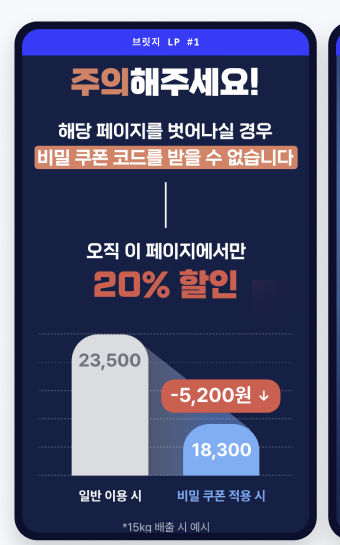
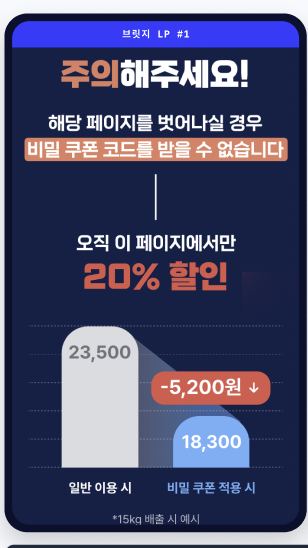
v25.2: p5 우측 재구성 + p9 카드 sliver 제거
- p5(ARPU/8kg) 우측 컬럼 첨부 디자인 매칭
  · Card #3을 가로형(텍스트 좌측 + 가방 우측)으로 재구성
  · 결과 미니 차트(20.75 vs 27.07)를 Card #3 카드 안에서 분리, 그 아래 별도 카드로 배치
  · Card #1·#2는 column 3 길이에 맞춰 자동 stretch
- p9(Web2App) 3장 카드 재크롭으로 인접 카드 sliver 완전 제거
  · Card #1: left=10, w=308, h=548 (table header 누설 차단)
  · Card #2: left=358, w=282, h=548 (우측 sliver 제거)
  · Card #3: left=660, w=340, h=548 ('첫구매' 좌측 텍스트까지 포함)

diff --git a/이도형_포트폴리오_v25.html b/이도형_포트폴리오_v25.html
@@ -834,41 +834,45 @@ document.addEventListener('DOMContentLoaded', function(){
           </div>
         </div>
 
-        <!-- ─── Card #3: 많이 배출 = 이득 + 결과 미니 차트 ─── -->
-        <div style="background:#fff;border:1px solid var(--line);border-radius:12px;overflow:hidden;display:flex;flex-direction:column;box-shadow:0 2px 6px rgba(15,25,50,.04);">
-          <div style="background:var(--cobalt);padding:8px 12px;font-family:var(--font-mono);font-size:11px;font-weight:800;color:#fff;letter-spacing:.08em;text-align:center;text-transform:uppercase;flex-shrink:0;">8kg 정책 #3</div>
-          <!-- 베이지 영역: 안내 + 가방 -->
-          <div style="background:#F3EBD7;padding:14px 14px 12px;display:flex;flex-direction:column;align-items:center;flex-shrink:0;">
-            <div style="font-family:var(--font-mono);font-size:10px;font-weight:700;color:#8A7641;letter-spacing:.04em;">많이 배출하면 이득</div>
-            <div style="margin-top:6px;font-family:var(--font-display);font-size:15px;font-weight:900;color:#3A331E;text-align:center;line-height:1.35;letter-spacing:-.02em;">8kg 초과 배출 하고<br>기본 요금 <span style="color:#0F19D8;">25% 할인</span></div>
-            <div style="margin-top:10px;position:relative;width:120px;height:120px;">
-              <svg viewBox="0 0 170 170" style="width:100%;height:100%;">
-                <ellipse cx="85" cy="22" rx="24" ry="13" fill="none" stroke="#3A4257" stroke-width="3.5"/>
-                <path d="M 30 28 L 140 28 L 152 158 L 18 158 Z" fill="#3A4257"/>
-                <text x="85" y="96" text-anchor="middle" font-family="Pretendard, sans-serif" font-weight="900" font-size="32" fill="#fff">8kg</text>
-                <text x="85" y="120" text-anchor="middle" font-family="Pretendard, sans-serif" font-weight="600" font-size="8" fill="#fff" opacity="0.7">기본요금 할인</text>
-              </svg>
-              <div style="position:absolute;bottom:4px;right:-4px;width:48px;height:48px;">
-                <svg viewBox="0 0 62 62" style="width:100%;height:100%;">
-                  <path d="M 4 4 L 58 4 L 58 55 L 31 46 L 4 55 Z" fill="#C5EE6F" stroke="#0F19D8" stroke-width="2"/>
-                  <text x="31" y="34" text-anchor="middle" font-family="Pretendard, sans-serif" font-weight="900" font-size="16" fill="#0A0F2E">20%</text>
+        <!-- ─── Column 3: Card #3 (가로형 텍스트+가방) + 결과 미니 차트 stacked ─── -->
+        <div style="display:flex;flex-direction:column;gap:12px;min-height:0;">
+          <!-- Card #3: 텍스트 좌측 · 가방 우측 -->
+          <div style="background:#fff;border:1px solid var(--line);border-radius:12px;overflow:hidden;display:flex;flex-direction:column;box-shadow:0 2px 6px rgba(15,25,50,.04);flex-shrink:0;">
+            <div style="background:var(--cobalt);padding:8px 12px;font-family:var(--font-mono);font-size:11px;font-weight:800;color:#fff;letter-spacing:.08em;text-align:center;text-transform:uppercase;flex-shrink:0;">8kg 정책 #3</div>
+            <div style="padding:18px 16px 16px;display:flex;align-items:center;gap:10px;">
+              <div style="flex:1;min-width:0;">
+                <div style="font-family:var(--font-mono);font-size:10.5px;font-weight:700;color:#5B6675;letter-spacing:.04em;">많이 배출하면 이득</div>
+                <div style="margin-top:8px;font-family:var(--font-display);font-size:14.5px;font-weight:900;color:var(--text);line-height:1.4;letter-spacing:-.02em;">8kg 초과 배출 하고<br>기본 요금 <span style="color:#0F19D8;">25% 할인</span></div>
+              </div>
+              <div style="position:relative;width:90px;height:90px;flex-shrink:0;">
+                <svg viewBox="0 0 170 170" style="width:100%;height:100%;">
+                  <ellipse cx="85" cy="22" rx="24" ry="13" fill="none" stroke="#3A4257" stroke-width="3.5"/>
+                  <path d="M 30 28 L 140 28 L 152 158 L 18 158 Z" fill="#3A4257"/>
+                  <text x="85" y="96" text-anchor="middle" font-family="Pretendard, sans-serif" font-weight="900" font-size="32" fill="#fff">8kg</text>
                 </svg>
+                <div style="position:absolute;bottom:-4px;right:-8px;width:42px;height:42px;">
+                  <svg viewBox="0 0 62 62" style="width:100%;height:100%;">
+                    <path d="M 4 4 L 58 4 L 58 55 L 31 46 L 4 55 Z" fill="#C5EE6F" stroke="#0F19D8" stroke-width="2"/>
+                    <text x="31" y="34" text-anchor="middle" font-family="Pretendard, sans-serif" font-weight="900" font-size="16" fill="#0A0F2E">20%</text>
+                  </svg>
+                </div>
               </div>
             </div>
           </div>
-          <!-- v25: 미니 결과 차트 (도입 전 20.75 vs 도입 후 27.07) -->
-          <div style="flex:1;min-height:0;padding:9px 12px 11px;display:flex;flex-direction:column;background:#fff;border-top:1px solid var(--line-lt);">
-            <div style="font-family:var(--font-mono);font-size:9.5px;font-weight:800;color:var(--cobalt);text-align:left;line-height:1.3;">결과: 8kg 초과 배출 비율 <span style="color:#0E9E76;">+6.32%p</span>, 객단가 <span style="color:#0E9E76;">+17.6%</span></div>
-            <div style="display:flex;align-items:flex-end;justify-content:center;gap:14px;flex:1;min-height:0;padding:6px 4px 2px;">
+          <!-- 결과 미니 차트 (Card #3 아래) -->
+          <div style="background:#fff;border:1px solid var(--line);border-radius:12px;padding:10px 12px 12px;display:flex;flex-direction:column;flex:1;min-height:0;box-shadow:0 2px 6px rgba(15,25,50,.04);">
+            <div style="font-family:var(--font-mono);font-size:10px;font-weight:800;color:var(--text);line-height:1.3;">결과: 8kg 초과 배출 비율 <span style="color:#0E9E76;">+6.32%p</span>, 객단가 <span style="color:#0E9E76;">+17.6%</span></div>
+            <div style="font-family:var(--font-mono);font-size:8px;color:var(--sub);margin-top:2px;line-height:1.3;">8kg 초과 배출 비율 — 정책 도입 후 +6.32%p, 객단가 +17.6% 동시</div>
+            <div style="display:flex;align-items:flex-end;justify-content:center;gap:18px;flex:1;min-height:0;padding:4px 6px 0;">
               <div style="display:flex;flex-direction:column;align-items:center;flex:1;height:100%;justify-content:flex-end;">
-                <div style="font-family:var(--font-mono);font-size:10px;font-weight:800;color:#5B6675;margin-bottom:2px;">20.75</div>
-                <div style="background:#B0B5C2;width:100%;max-width:42px;height:62%;border-radius:3px 3px 0 0;"></div>
-                <div style="font-family:var(--font-mono);font-size:7.5px;color:var(--sub);margin-top:3px;">도입 전<br>(24.05~10)</div>
+                <div style="font-family:var(--font-mono);font-size:11px;font-weight:800;color:#5B6675;margin-bottom:1px;">20.75</div>
+                <div style="background:#B0B5C2;width:100%;max-width:46px;height:60%;"></div>
+                <div style="font-family:var(--font-mono);font-size:8px;color:var(--sub);margin-top:3px;white-space:nowrap;">도입 전 (24.05~10)</div>
               </div>
               <div style="display:flex;flex-direction:column;align-items:center;flex:1;height:100%;justify-content:flex-end;">
-                <div style="font-family:var(--font-mono);font-size:10px;font-weight:800;color:#0E9E76;margin-bottom:2px;">27.07</div>
-                <div style="background:#6FBF73;width:100%;max-width:42px;height:81%;border-radius:3px 3px 0 0;"></div>
-                <div style="font-family:var(--font-mono);font-size:7.5px;color:var(--sub);margin-top:3px;">도입 후<br>(24.11~25.03)</div>
+                <div style="font-family:var(--font-mono);font-size:11px;font-weight:800;color:#0E9E76;margin-bottom:1px;">27.07</div>
+                <div style="background:#6FBF73;width:100%;max-width:46px;height:79%;"></div>
+                <div style="font-family:var(--font-mono);font-size:8px;color:var(--sub);margin-top:3px;white-space:nowrap;">도입 후 (24.11~25.03)</div>
               </div>
             </div>
           </div>